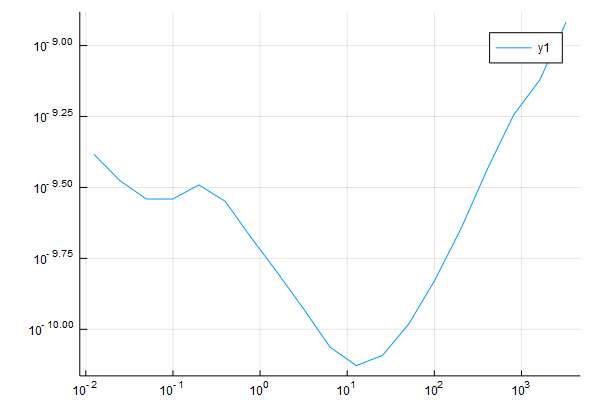
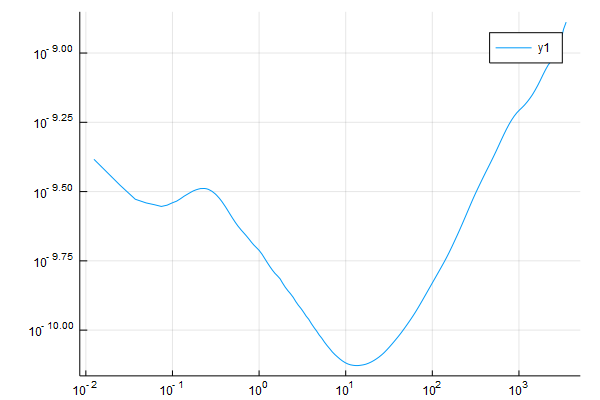
Finished Docs and changed standard tau argument to integer which is new

diff --git a/doc/src/quickstart.md b/doc/src/quickstart.md
@@ -1,0 +1,149 @@
+# Quickstart
+
+## Installation
+Install the package once in a Julia Console/REPL with:
+```Julia
+using Pkg
+Pkg.add("AllanDeviations")
+```
+
+## Loading
+The package can be loaded in every Julia program with a simple using directive
+```Julia
+using AllanDeviations
+```
+
+## Allan Deviation of random data
+Print the overlapping Allan Deviation of one million random points with rate 1.0 at octave log-spaced taus:
+```Julia
+using AllanDeviations
+
+arr = rand(Float64, 1_000_000)
+
+result = allandev(arr, 1.0)
+
+println(result.deviation)
+```
+
+## Other deviations
+```Julia
+result = allandev(arr, 1.0)    #Allan deviation
+result = mallandev(arr, 1.0)   #Modified Allan deviation
+result = hadamarddev(arr, 1.0) #Hadamard deviation
+result = timedev(arr, 1.0)     #Time deviation
+result = totaldev(arr, 1.0)    #Total deviation
+result = mtie(arr, 1.0)        #Maximum time interval error
+```
+
+## Full Data result
+Every deviation method returns a named tuple in the form `(tau, deviation, error, count)`
+```Julia
+println("Calculated taus:")
+println(result.tau)
+
+println("Calculated Deviations:")
+println(result.deviation)
+
+println("Calculated errors:")
+println(result.error)
+
+println("Calculated Term Number:")
+println(result.count)
+```
+
+### Same Result via tuple deconstruction
+The returned tuple can already be deconstructed into variables on return.
+```Julia
+(myTaus, myDeviation, myError, myCount) = allandev(arr, 1.0)
+```
+
+## Calculating on frequency data
+AllanDeviations.jl assumes by default that the `data`-argument contains phase data. This can be changed by setting the optional named argument `frequency` to `true` for frequency data.
+```Julia
+result = allandev(arr, 1.0, frequency = true)
+```
+
+## Non-Overlapping
+AllanDeviations.jl will by default calculate the overlapping deviations.
+This can be changed by setting the optional named argument `overlapping` to `false`.
+```Julia
+result = allandev(arr, 1.0, overlapping = false)
+```
+
+## Addressing different taus
+```Julia
+#Key-Types
+allandev(arr, 1.0, taus = AllTaus)       #all possible taus
+allandev(arr, 1.0, taus = QuarterOctave) #quarter octave log-spaced
+allandev(arr, 1.0, taus = HalfOctave)    #half octave log-spaced
+allandev(arr, 1.0, taus = Octave)        #octave log-spaced
+allandev(arr, 1.0, taus = HalfDecade)    #hald decade log-spaced
+allandev(arr, 1.0, taus = Decade)        #decade log-spaced
+
+#Explicit taus
+allandev(arr, 1.0, taus = [2.0])           #calculate deviation at tau=2.0 if possible
+allandev(arr, 1.0, taus = [2.0, 3.0, 4.0]) #calculate deviation at tau=2.0, tau=3.0 & tau=4.0 if possible
+
+#Custom log scale
+allandev(arr, 1.0, taus = 1.2) #calculate 1/5 of an octave log-spaced
+
+#Custom log count
+allandev(arr, 1.0, taus = 100) #calculate 100 log-spaced tau values between min and maximal possible tau
+#This does not guarantee that 100 deviations will be calculated since some values will be discarded
+#when less than two terms contributed to it
+```
+
+## Benchmark Deviations
+
+#### Benchmark different overlapping deviations for one million datapoints and 200 taus
+```Julia
+using BenchmarkTools
+arr = rand(Float64, 1_000_000);
+@btime allandev(arr, 1.0, taus = 200);    #Allan Deviation
+@btime mallandev(arr, 1.0, taus = 200);   #Modified Allan Deviation
+@btime hadamarddev(arr, 1.0, taus = 200); #Hadamard Deviation
+@btime timedev(arr, 1.0, taus = 200);     #Time Deviation
+@btime totaldev(arr, 1.0, taus = 200);    #Total Deviation
+@btime mtie(arr, 1.0, taus = 200);        #Maximum time interval error
+println("Done")
+```
+Results
+```
+315.247 ms (52 allocations: 35.91 KiB) #Allan Deviation
+309.990 ms (52 allocations: 35.28 KiB) #Modified Allan Deviation
+278.230 ms (52 allocations: 35.28 KiB) #Hadamard Deviation
+309.647 ms (57 allocations: 39.33 KiB) #Time Deviation
+331.483 ms (54 allocations: 22.92 MiB) #Total Deviation
+901.942 ms (52 allocations: 35.91 KiB) #Maximum time interval error
+Done
+```
+
+For comparison, pythons allantools needs approximately
+3.5 seconds for the Allan deviation, 6.5 seconds for the total deviation and
+an indeterminate amount of time for mtie (to be fair, allantools also provides a fastmtie which seems to be currently unfinished though).
+
+#### Benchmark different overlapping deviations for 10.000 data points and all possible taus:
+```Julia
+using BenchmarkTools
+arr = rand(Float64, 10_000)
+@btime allandev(arr, 1.0, taus = AllTaus);    #Allan Deviation
+@btime mallandev(arr, 1.0, taus = AllTaus);   #Modified Allan Deviation
+@btime hadamarddev(arr, 1.0, taus = AllTaus); #Hadamard Deviation
+@btime timedev(arr, 1.0, taus = AllTaus);     #Time Deviation
+@btime totaldev(arr, 1.0, taus = AllTaus);    #Total Deviation
+@btime mtie(arr, 1.0, taus = AllTaus);        #Maximum time interval error
+println("Done")
+```
+Results:
+```
+37.702 ms (30 allocations: 436.13 KiB)  #Allan Deviation
+39.805 ms (30 allocations: 371.13 KiB)  #Modified Allan Deviation
+28.266 ms (30 allocations: 371.13 KiB)  #Hadamard Deviation
+39.969 ms (51 allocations: 449.97 KiB)  #Time Deviation
+150.508 ms (32 allocations: 865.89 KiB) #Total Deviation
+240.852 ms (30 allocations: 631.44 KiB) #Maximum time interval error
+Done
+
+```
+
+However, these timings need to be taken with a grain of salt, since it does not represent real world data.

diff --git a/doc/src/index.md b/doc/src/index.md
@@ -1,0 +1,50 @@
+# AllanDeviations.jl
+
+AllanDeviations.jl is a package for the [Julia programming language](https://www.julialang.org).
+
+It provides fast frequency and phase stability deviations/variances for different purposes and timescales
+in a unified API ([API guide](@ref)) and plain Julia without any dependencies.
+
+It was build and tested against Julia v1 and should be therefore upwards compatible for a long time.
+
+## Implemented Deviations/Functions
+
+#### [Allan deviation](@ref)
+* Overlapping & non-overlapping
+* Frequency- & phase data
+* General purpose choice
+
+#### [Modified Allan deviation](@ref)
+* Overlapping & non-overlapping
+* Frequency- & phase data
+* Used to distinguish W and F PM
+
+#### [Hadamard deviation](@ref)
+* Overlapping & non-overlapping
+* Frequency- & phase data
+* Rejects frequency drift, and handles divergent noise
+
+#### [Time deviation](@ref)
+* Overlapping & non-overlapping
+* Frequency- & phase data
+* General time error of time source
+
+#### [Total deviation](@ref)
+* Overlapping & non-overlapping
+* Frequency- & phase data
+* Better confidence at long averages for Allan
+
+#### [Maximum time interval error](@ref)
+* Overlapping & non-overlapping
+* Frequency- & phase data
+* Measure of clock error commonly used in the tele-communications industry
+
+
+## Example Calculation
+
+This is an example plot of some AllanDeviations.jl calculations of a Potassium-D2-Frequency beat note from two reference lasers.
+![Potassium D2](assets/DeviationResults.png)
+
+## References
+The main algorithms where implemented with the help of a C Reference implementations from [leapsecond.com](http://www.leapsecond.com/tools/adev_lib.c) and the main Literature from [NIST - Riley, William J. "Handbook of frequency stability analysis." (2008): 81.](https://nvlpubs.nist.gov/nistpubs/Legacy/SP/nistspecialpublication1065.pdf).
+The Python package [allantools](https://pypi.org/project/AllanTools/) was used as reference test implementation to verify the results against.

diff --git a/doc/src/lib/apiguide.md b/doc/src/lib/apiguide.md
@@ -1,0 +1,33 @@
+# API guide
+
+Every deviation function uses the same input and output structure.
+
+```Julia
+(tau, deviation, error, count) = XXXdev(data, rate; frequency = false, overlapping = true, taus = 192)
+```
+
+## Input Parameter
+```Julia
+data, rate; frequency = false, overlapping = true, taus = 192
+```
+ * `data` - is the data to calculate the deviation from. It must be either phase data (default) or frequency data according to the `frequency` argument. The type of the array can be any possible numeric type and the deviations function are type stable.
+ * `rate` - is the rate as a Float, which describes the data capturing rate of your dataset.
+
+
+ * `[frequency]` *optional*, *named* - can be set to false (default) if the `data` argument contains phase data or `true` if the `data` argument contains frequency data.
+ * `[overlapping]` *optional*, *named* - can be set to true (default) for the overlapping deviation or false for the consecutive one.
+ * `[taus]` *optional*, *named* - describes at which averaging time the deviation should be calculated. This can be either:
+   - An `AllanTauDescriptor` type where there is: `AllTaus`, `QuarterOctave`, `HalfOctave`, `Octave`, `HalfDecade`, `Decade` and produces respective log-spaced points
+   - A Float Array which describes at which taus the deviation should be evaluated
+   - A Float which produces an according base-log-spaced array of taus
+   - An Integer (default, 192) which produces an array of equally many log-spaced taus. (Note: this does not mean, that exactly this count of deviations will be returned because some can be discarded due to too few contributing terms)
+
+## Output Tuple
+Every deviation returns a named output tuple:
+```Julia
+(tau, deviation, error, count)
+```
+ * `tau` - the taus where the respective deviations got calculated on
+ * `deviation` - the deviations
+ * `error` - the respective deviation errors
+ * `count` - the respective count of contributing terms for each deviation (always 2 <= count < N)

diff --git a/doc/src/installation.md b/doc/src/installation.md
@@ -1,0 +1,35 @@
+# Installation guide
+
+AllanDeviations.jl is registered in [Metadata.jl](https://github.com/JuliaLang/METADATA.jl/tree/metadata-v2/AllanDeviations).
+Therefore it is part of the official, public package system.
+
+You can download and install it in your global Julia installation (or local project)
+via opening a Julia Console/REPL and type:
+
+```Julia
+using Pkg
+Pkg.add("AllanDeviations")
+```
+This installs all necessary files. **This only needs to be done once!**
+
+Afterwards, the package can be loaded by
+
+```Julia
+using AllanDeviations
+```
+
+## Updating
+
+The package installation can be updated to the newest version with:
+
+```Julia
+using Pkg
+Pkg.update("AllanDeviations")
+```
+
+Or even by updating all installed packages
+
+```Julia
+using Pkg
+Pkg.update()
+```

diff --git a/doc/src/lib/mtie.md b/doc/src/lib/mtie.md
@@ -1,0 +1,16 @@
+# Maximum time interval error
+
+## Formula
+Maximum time interval error
+
+$$Mtie(\tau)=\operatorname{max}_{1\leq k\leq N-n}\left(\operatorname{max}_{k\leq t\leq k+n}(x_t)-\operatorname{min}_{k\leq t\leq k+n}(x_t)\right)$$
+
+## Doc String
+
+```@docs
+mtie(x)
+```
+
+## Possible issues
+ * `mtie` in itself needs a great amount of computations and can be very slow for big taus with many data points. When computations need too much time, consider reducing the number of taus and/or especially using smaller taus.
+ * Mtie can be called with a non-overlapping calculation. This throws a warning because it is unusual to use but nevertheless faster.

diff --git a/doc/src/lib/totaldev.md b/doc/src/lib/totaldev.md
@@ -1,0 +1,14 @@
+# Total deviation
+
+## Formula
+total variance
+
+$$Tot\,\sigma_y^2(\tau)=\frac{1}{2\tau^2(N-2)}\sum_{j=2}^{N-1}\left(x_{j-m}^*-2x_{j}^*+x_{j+m}^*\right)^2$$
+
+## Doc String
+
+```@docs
+totaldev(x)
+```
+## Possible issues
+ * `totaldev` can be called with a non-overlapping calculation. This throws a warning because it is unusual to use but nevertheless faster.

diff --git a/doc/src/lib/mallandev.md b/doc/src/lib/mallandev.md
@@ -1,0 +1,12 @@
+# Modified Allan deviation
+
+## Formula
+Modified Allan variance
+
+$$Mod\,\sigma_y^2(\tau)=\frac{1}{2m^2\tau^2(N-3m+1)}\sum_{j=1}^{N-3m+1}\left(\sum_{t=j}^{j+m-1}[x_{t+2m}-2x_{t+m}+x_{t}]\right)^2$$
+
+## Doc String
+
+```@docs
+mallandev(x)
+```

diff --git a/doc/src/lib/hadamarddev.md b/doc/src/lib/hadamarddev.md
@@ -1,0 +1,12 @@
+# Hadamard deviation
+
+## Formula
+Hadamard variance
+
+$$H\sigma_y^2(\tau)=\frac{1}{6\tau^2(N-3m)}\sum_{j=1}^{N-3m}\left(x_{j+3}-3x_{j+2}+3x_{j+1}-x_{j}\right)^2$$
+
+## Doc String
+
+```@docs
+hadamarddev(x)
+```

diff --git a/doc/src/lib/allandev.md b/doc/src/lib/allandev.md
@@ -1,4 +1,11 @@
-# Allandeviation 
+# Allan deviation
+
+## Formula
+Allan variance
+
+$$\sigma_y^2(\tau)=\frac{1}{2(N-2m)\tau^2}\sum_{j=1}^{N-2m}(x_{j+2m}-2x_{j+m}+x_{j})^2$$
+
+## Doc String
 
 ```@docs
 allandev(x)

diff --git a/doc/src/lib/timedev.md b/doc/src/lib/timedev.md
@@ -1,0 +1,12 @@
+# Time deviation
+
+## Formula
+time variance
+
+$$\sigma_x^2(\tau)=\frac{\tau^2}{3}Mod\,\sigma_y^2(\tau)$$
+
+## Doc String
+
+```@docs
+timedev(x)
+```
